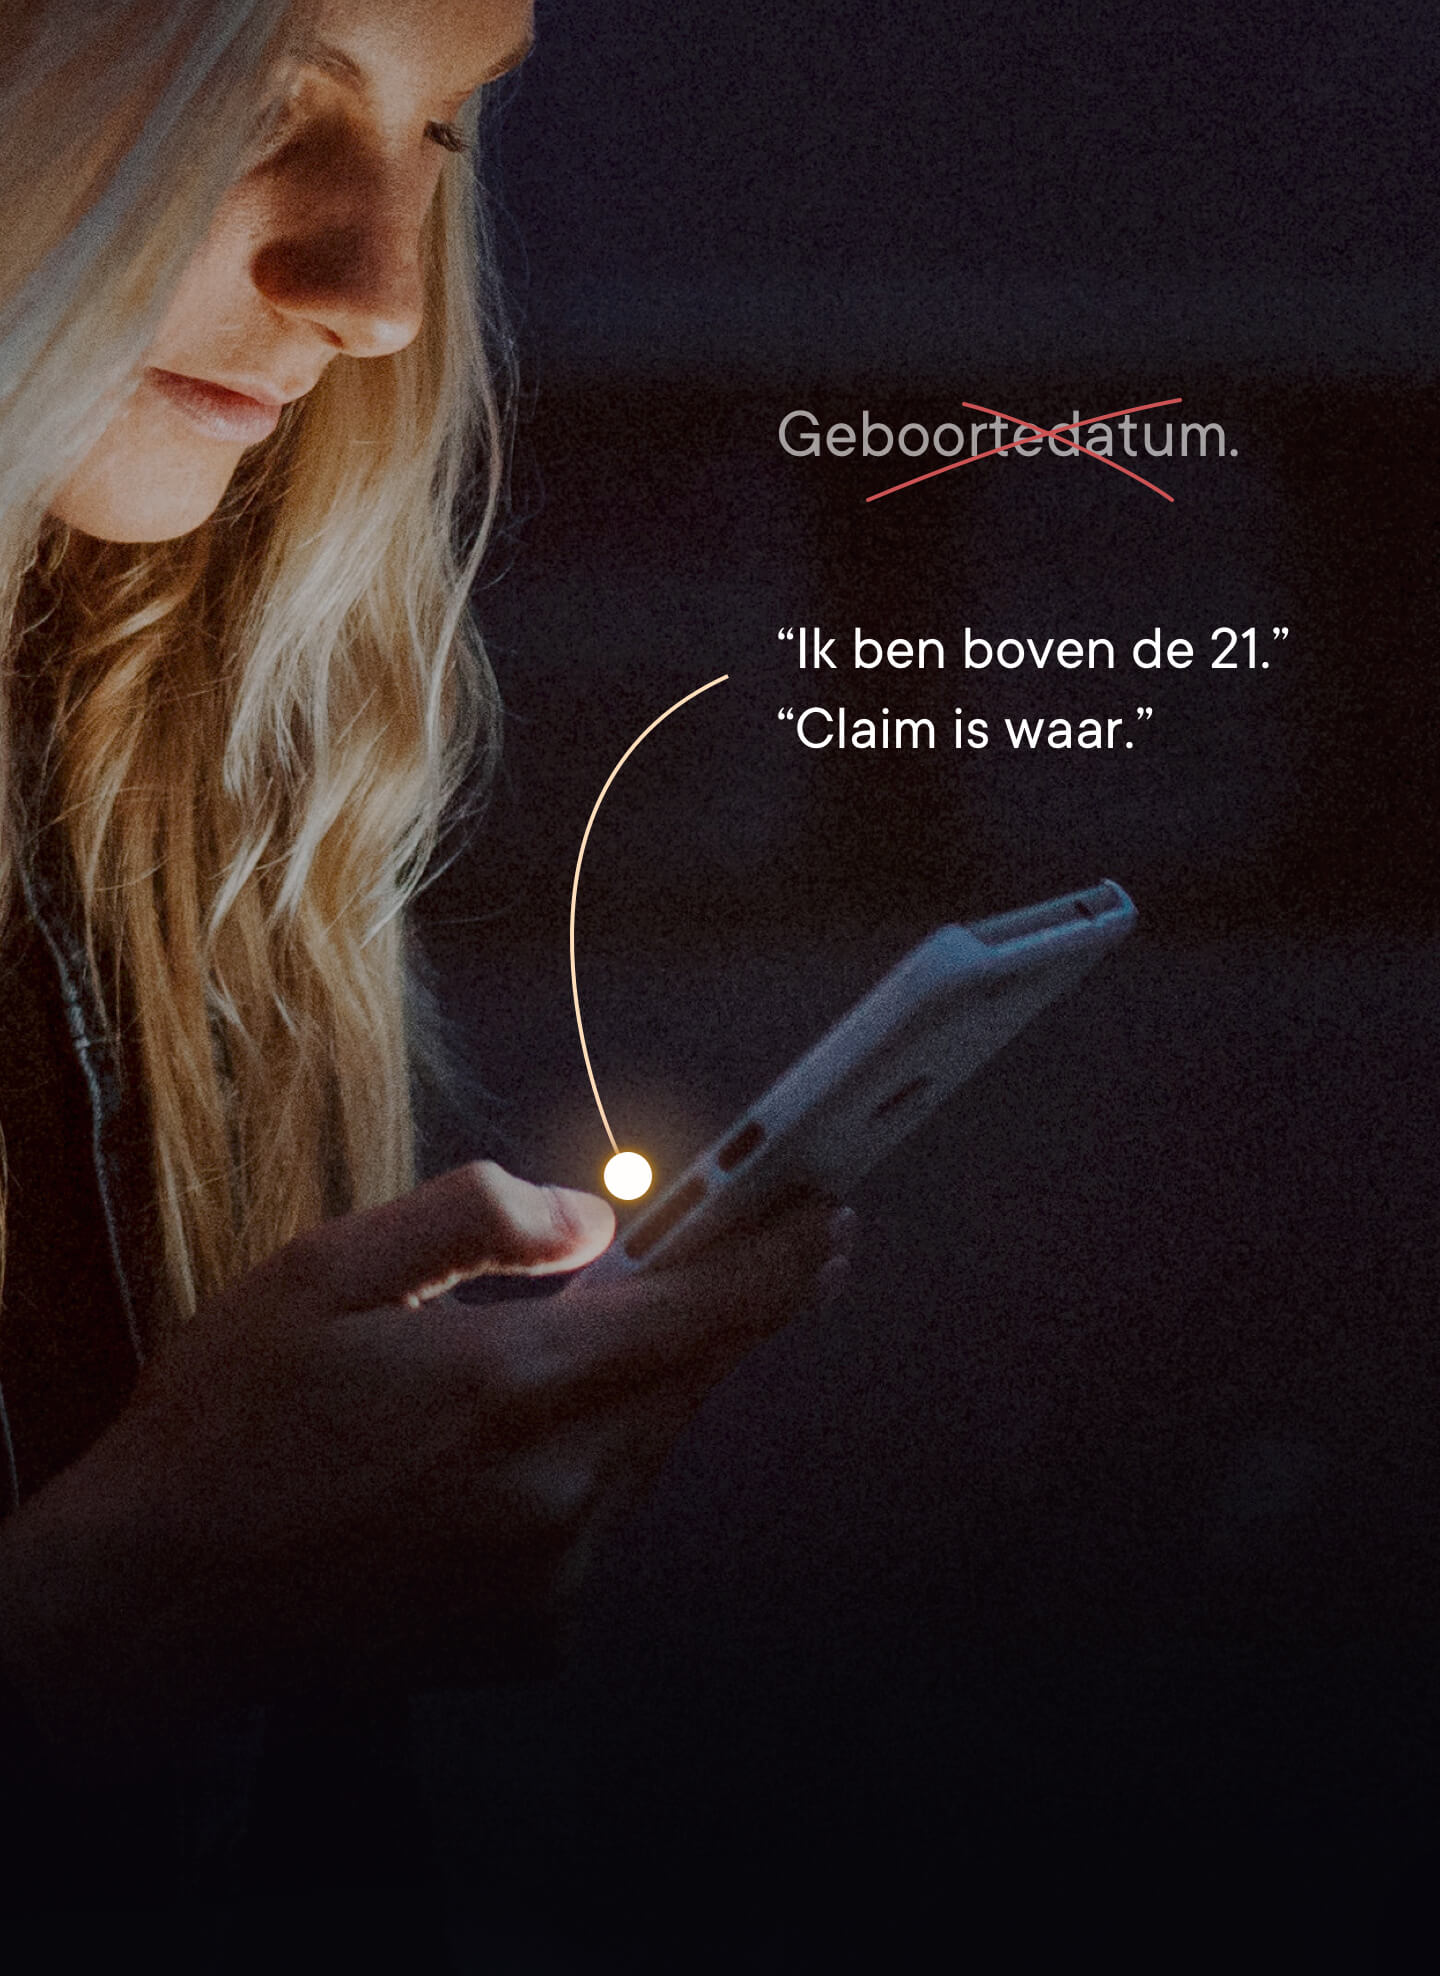
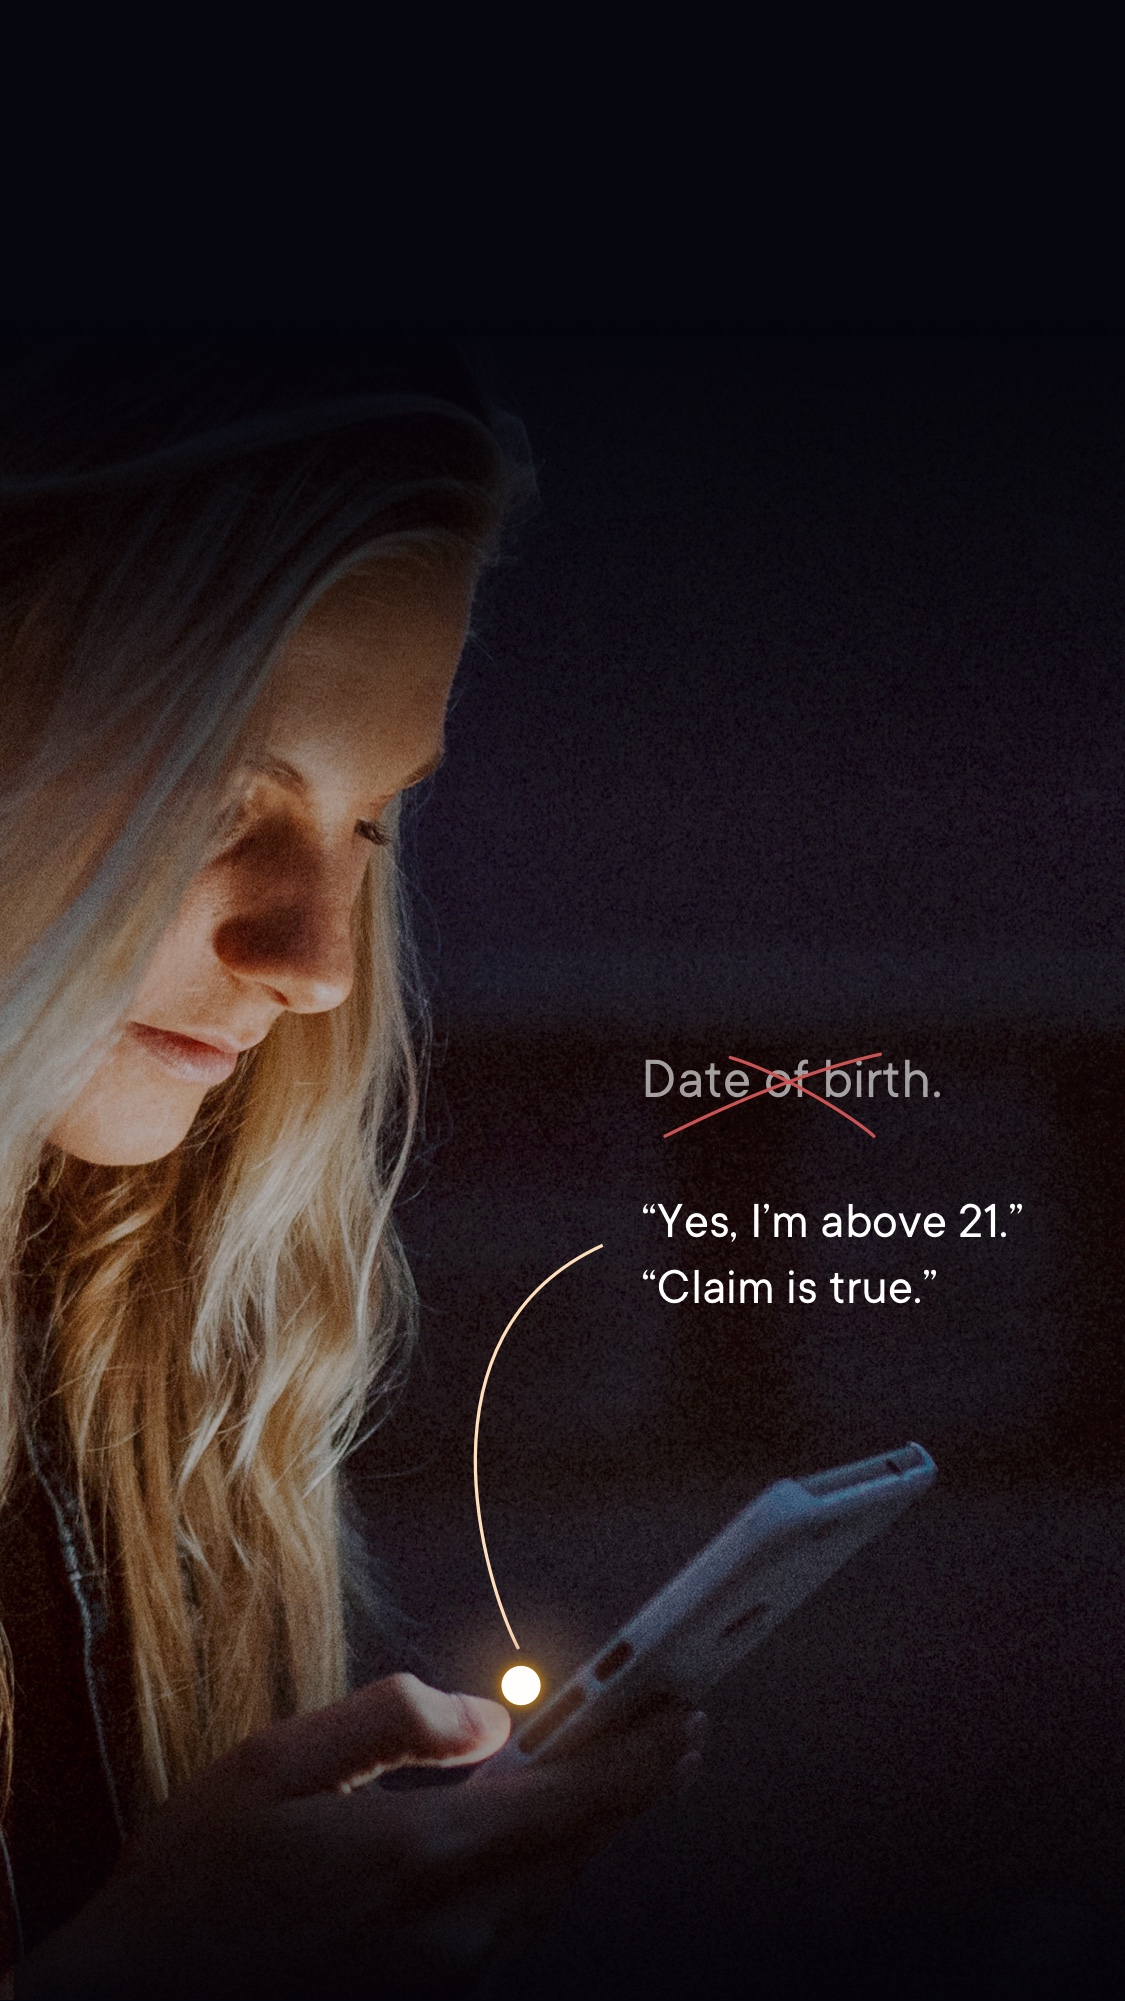
Update landing screen layout
We are re-arranging the layout of the landing screen to be a bit more
pleasant. This commit introduces a two-button layout with a wider call-to
-action, and with text at the top. New images have been added to
accommodate this layout, but we are now in need of translations for the
new versions.

diff --git a/src/ui/landing/components/landing.tsx b/src/ui/landing/components/landing.tsx
@@ -1,11 +1,12 @@
 import React from 'react'
 import { StyleSheet, Dimensions, View, Text } from 'react-native'
-import { Container, JolocomButton } from 'src/ui/structure'
+import { Container } from 'src/ui/structure'
 import I18n from 'src/locales/i18n'
 import strings from 'src/locales/strings'
 import { landingSlides, Slide } from './landingSlides'
 import Carousel, { Pagination } from 'react-native-snap-carousel'
-import { Typography, Colors, Spacing } from 'src/styles'
+import { Typography, Colors, Spacing, Buttons } from 'src/styles'
+import { Button } from 'react-native-material-ui'
 
 interface State {
   activeSlide: number
@@ -15,18 +16,20 @@ interface Props {
   handleButtonTap: () => void
 }
 
-const viewWidth: number = Dimensions.get('window').width
+const viewWidth = Dimensions.get('window').width
 
 const styles = StyleSheet.create({
   mainContainer: {
     backgroundColor: Colors.blackMain,
-    paddingBottom: '5%',
   },
   carouselSlide: {
-    flex: 1,
+    width: '100%',
+    height: '100%',
+    alignItems: 'center',
   },
   carouselTextContainer: {
-    marginTop: 'auto',
+    marginTop: viewWidth > 360 ? Spacing['4XL'] : Spacing.XXL,
+    position: 'absolute',
     paddingHorizontal: '5%',
   },
   header: {
@@ -39,7 +42,7 @@ const styles = StyleSheet.create({
     textAlign: 'center',
     color: Colors.sandLight080,
     lineHeight: Typography.subMainText.fontSize + 4,
-    marginTop: Spacing.MD,
+    marginTop: Spacing.SM,
   },
   activeDotStyle: {
     width: 8,
@@ -51,8 +54,28 @@ const styles = StyleSheet.create({
     height: 8,
     backgroundColor: Colors.dotColorInactive,
   },
-  buttonArea: {
-    flex: 0.1,
+  bottomSection: {
+    position: 'absolute',
+    width: '85%',
+    bottom: '5%',
+    alignItems: 'center',
+  },
+  mainButtonContainer: {
+    ...Buttons.buttonStandardContainer,
+    alignSelf: 'stretch',
+  },
+  mainButtonText: {
+    ...Buttons.buttonStandardText,
+  },
+  recoverButtonContainer: {
+    ...Buttons.buttonStandardContainer,
+    backgroundColor: 'transparent',
+    marginTop: Spacing.XS,
+    alignSelf: 'stretch',
+  },
+  recoverButtonText: {
+    ...Buttons.buttonStandardText,
+    fontSize: Typography.textSM,
   },
 })
 
@@ -62,10 +85,10 @@ export class LandingComponent extends React.Component<Props, State> {
   }
 
   private renderItem = ({ item }: { item: Slide }) => {
-    const { svgImage, title, infoText } = item
+    const { bgImage, title, infoText } = item
     return (
       <View style={styles.carouselSlide}>
-        {svgImage}
+        {bgImage}
         <View style={styles.carouselTextContainer}>
           <Text style={styles.header}>{title}</Text>
           <Text style={styles.message}>{infoText}</Text>
@@ -91,19 +114,31 @@ export class LandingComponent extends React.Component<Props, State> {
             this.setState({ activeSlide: index })
           }
         />
-        <Pagination
-          dotsLength={landingSlides.length}
-          activeDotIndex={activeSlide}
-          dotStyle={styles.activeDotStyle}
-          inactiveDotStyle={styles.inactiveDotStyle}
-          inactiveDotScale={0.5}
-        />
-        <View style={styles.buttonArea}>
-          <JolocomButton
-            raised
+        <View style={styles.bottomSection}>
+          <Pagination
+            containerStyle={{}}
+            dotsLength={landingSlides.length}
+            activeDotIndex={activeSlide}
+            dotStyle={styles.activeDotStyle}
+            inactiveDotStyle={styles.inactiveDotStyle}
+            inactiveDotScale={0.5}
+          />
+          <Button
             onPress={this.props.handleButtonTap}
-            upperCase={false}
+            style={{
+              container: styles.mainButtonContainer,
+              text: styles.mainButtonText,
+            }}
             text={I18n.t(strings.GET_STARTED)}
+            upperCase={false}
+          />
+          <Button
+            style={{
+              container: styles.recoverButtonContainer,
+              text: styles.recoverButtonText,
+            }}
+            text={'Recover identity'}
+            upperCase={false}
           />
         </View>
       </Container>

diff --git a/src/ui/landing/components/landingSlides.tsx b/src/ui/landing/components/landingSlides.tsx
@@ -4,14 +4,14 @@ import I18n from 'src/locales/i18n'
 import strings from 'src/locales/strings'
 
 export interface Slide {
-  svgImage: ReactNode
+  bgImage: ReactNode
   title: string
   infoText: string
 }
 
 export const landingSlides: Slide[] = [
   {
-    svgImage: <Landing00 />,
+    bgImage: <Landing00 />,
     title: I18n.t(strings.YOUR_JOLOCOM_WALLET),
     infoText:
       I18n.t(
@@ -19,7 +19,7 @@ export const landingSlides: Slide[] = [
       ) + '.',
   },
   {
-    svgImage: <Landing01 />,
+    bgImage: <Landing01 />,
     title: I18n.t(strings.ITS_EASY),
     infoText:
       I18n.t(strings.FORGET_ABOUT_LONG_FORMS_AND_REGISTRATIONS) +
@@ -30,7 +30,7 @@ export const landingSlides: Slide[] = [
       '.',
   },
   {
-    svgImage: <Landing03 />,
+    bgImage: <Landing03 />,
     title: I18n.t(strings.ENHANCED_PRIVACY),
     infoText:
       I18n.t(strings.SHARE_ONLY_THE_INFORMATION_A_SERVICE_REALLY_NEEDS) +
@@ -39,7 +39,7 @@ export const landingSlides: Slide[] = [
       '.',
   },
   {
-    svgImage: <Landing02 />,
+    bgImage: <Landing02 />,
     title: I18n.t(strings.GREATER_CONTROL),
     infoText:
       I18n.t(

diff --git a/src/styles/index.ts b/src/styles/index.ts
@@ -2,5 +2,6 @@ import * as Colors from './colors'
 import * as Typography from './typography'
 import * as Buttons from './buttons'
 import { Spacing } from './spacing'
+import * as Presets from './presets'
 
-export { Colors, Typography, Buttons, Spacing }
+export { Colors, Typography, Buttons, Spacing, Presets }
